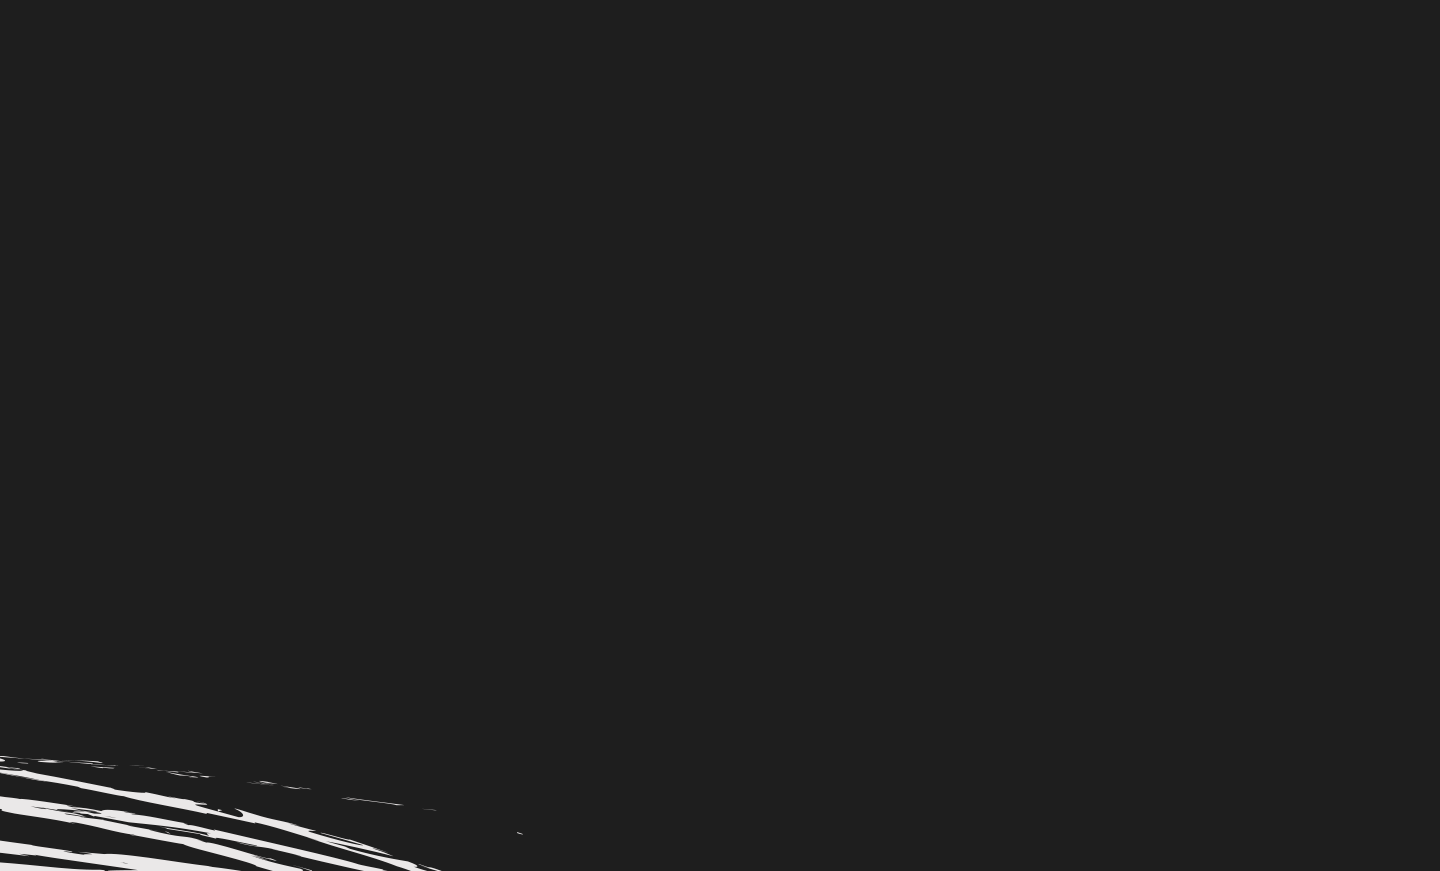
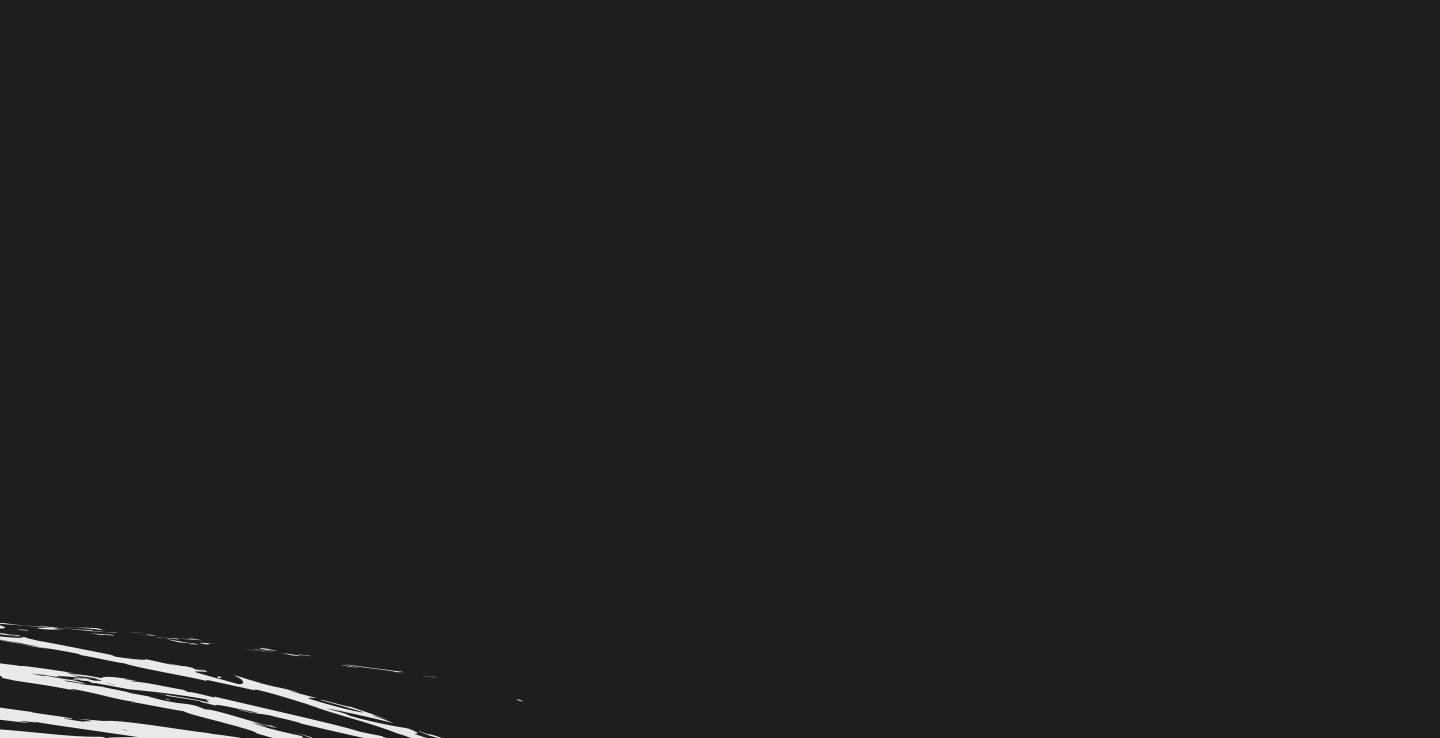
Add content_under & responsive

Changed region(s): [[0.0, 0.8415, 0.2812, 1.0], [0.2812, 0.9973, 0.3125, 1.0], [0.25, 0.9038, 0.2812, 0.935]]

diff --git a/style.css b/style.css
@@ -434,7 +434,7 @@ header {
 
             & .img_right {
                
-                    margin-left: 40px;
+                margin-left: 40px;
                 
                 & .content_mid_text {
                     
@@ -591,3 +591,98 @@ header {
     }
     
 }
+
+/*End Content_mid*/
+
+/*Start Content_under*/
+
+.content_under {
+    height: 800px;
+    background-image: url(html-template-travel/assets/img/bg_section_5.png);
+    background-repeat: no-repeat;
+    background-size: cover;
+    overflow: hidden;
+
+    .container {
+        max-width: 100%;
+
+        margin-top: 140px;
+
+        & .content_under_info {
+            
+            display: flex;
+            justify-content: space-between;
+
+            & .content_under_textlorem {
+                margin-left: 120px;
+                display: flex;
+                flex-direction: column;
+                justify-content: space-between;
+                color: var(--white);
+
+                & h1 {
+                    font-size: 55px;
+                    color: var(--white);
+                }
+
+                & h4:nth-of-type(1) {
+                    margin-top: 60px;
+                    font-size: 25px;
+                }
+                & h4:nth-of-type(2) {
+                    margin-top: 20px;
+                    font-size: 25px;
+                }
+
+                & p {
+                    font-size: 16px;
+                }
+            }
+        }
+    }
+}
+
+@media screen and (max-width: 480px) {
+    
+    .content_under {
+        height: auto;
+        
+        .container {
+            max-width: 420px;
+            
+            & .content_under_info {
+                flex-direction: column;
+
+                & .content_under_textlorem{
+                    margin-left: 0px;
+
+                    & h1 {
+                        font-size: 50px;
+                    }
+
+                    & h4 {
+                        font-size: 20px !important;
+                    }
+
+                    & h4:nth-of-type(2){
+                        margin-top: 50px;
+                    }
+
+                    & p {
+                        margin-top: 10px;
+                        font-size: 14px;
+                    }
+                }
+
+                & .img_right {
+                    margin: 50px 0px;
+                    & img {
+                        width: 100%;
+                    }
+                }
+            }
+        }
+    }
+}
+
+/*End Content_under*/

diff --git a/index.html b/index.html
@@ -142,6 +142,34 @@
             </div>
         </div>
     </section>
+
+    <section class="content_under">
+        <div class="container">
+            <div class="content_under_info">
+                <div class="content_under_textlorem">
+                    <h1>Choose any where <br>
+                        you'd like to be
+                        </h1>
+                    <h4>Lorem Ipsum dolor</h4>
+                    <p>Lorem ipsum dolor sit amet, consectetur adipisicing elit, sed do ei <br>
+                    usmod tempor incididunt ut labore et dolore magna aliqua. Ut eni- <br>
+                    ad minim veniam, quis nostrud exercitation ullamco laboris nisi ut <br>
+                    aliquip ex ea commodo consequat. Duis aute irure dolor in repre     - <br>
+                    derit in voluptate velit esse.</p>
+
+                    <h4>Lorem Ipsum dolor</h4>
+                    <p>Lorem ipsum dolor sit amet, consectetur adipisicing elit, sed do ei <br>
+                    usmod tempor incididunt ut labore et dolore magna aliqua. Ut eni- <br>
+                    ad minim veniam, quis nostrud exercitation ullamco laboris nisi ut <br>
+                    aliquip ex ea commodo consequat. Duis aute irure dolor in repre     - <br>
+                    derit in voluptate velit esse.</p>
+                </div>
+                <div class="img_right">
+                    <img src="html-template-travel/assets/img/img_section_5.png">
+                </div>
+            </div>
+        </div>
+    </section>
 </body>
 <script src="javascript.js"></script>
 </html>
